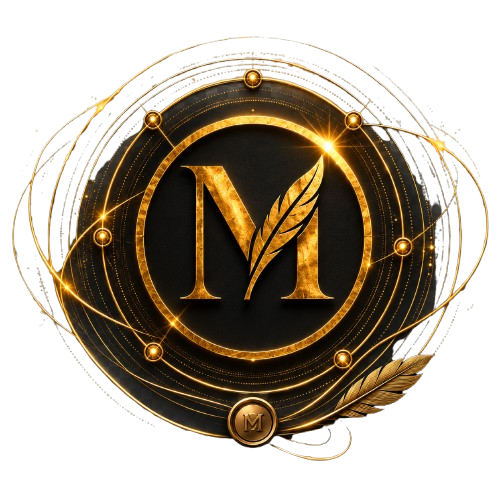
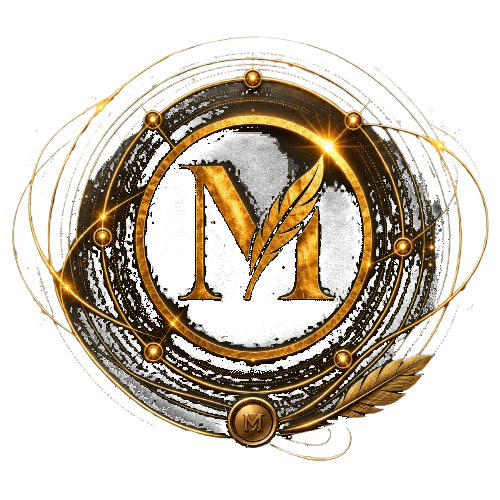
fix: remove baked black background from orb v2 asset
Use sharp to convert near-black pixels to true alpha transparency.
Corner alpha confirmed 0. Gold/amber/glow pixels preserved.
Remove mix-blend-mode:screen workaround — no longer needed.
Orb renders standalone with gold drop-shadow glow only.

https://claude.ai/code/session_01EypRH2NC1zvghtwzLosg4L

Changed region(s): [[0.15, 0.18, 0.9, 0.87]]

diff --git a/components/orbit/MilanoSealChatLauncher.tsx b/components/orbit/MilanoSealChatLauncher.tsx
@@ -46,10 +46,9 @@ export function MilanoSealChatLauncher() {
               alt="The Milano Seal Orb"
               animate={{ rotate: 360 }}
               transition={{ duration: 220, ease: "linear", repeat: Infinity }}
-              className="w-16 h-16 object-contain relative z-10 transition-all duration-500"
+              className="w-24 h-24 object-contain relative z-10 transition-all duration-500"
               style={{
-                mixBlendMode: "screen",
-                filter: "drop-shadow(0 0 18px rgba(212,175,55,0.7)) drop-shadow(0 0 36px rgba(212,175,55,0.35))",
+                filter: "drop-shadow(0 0 20px rgba(212,175,55,0.75)) drop-shadow(0 0 40px rgba(212,175,55,0.35))",
               }}
             />
           </motion.button>

diff --git a/app/login/page.tsx b/app/login/page.tsx
@@ -117,7 +117,7 @@ function MilanoSealOrb() {
       alt="The Milano Seal"
       width={88}
       height={88}
-      style={{ display: "block", width: 88, height: 88, objectFit: "contain", mixBlendMode: "screen" }}
+      style={{ display: "block", width: 88, height: 88, objectFit: "contain", filter: "drop-shadow(0 0 16px rgba(212,175,55,0.6))" }}
       draggable={false}
     />
   );
